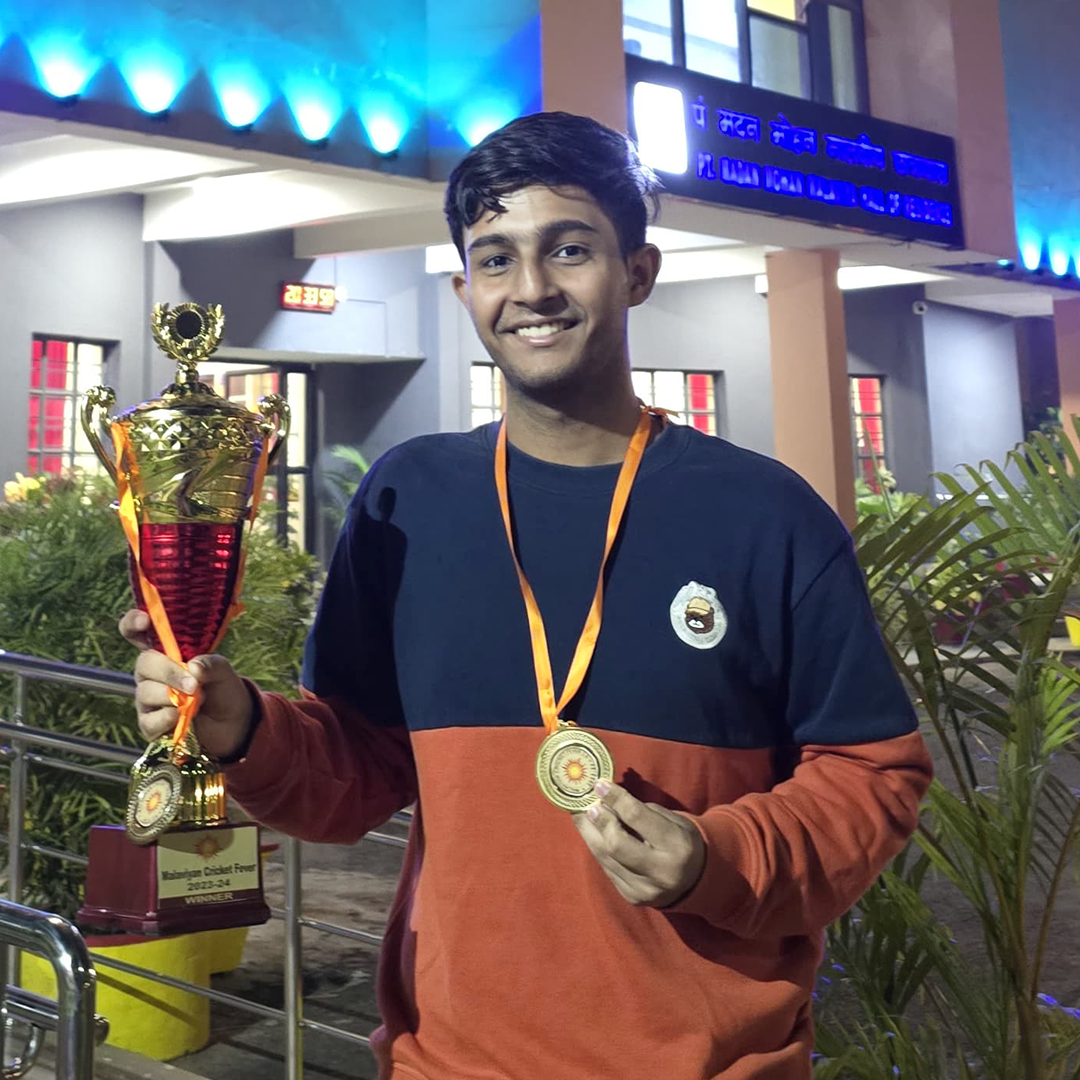
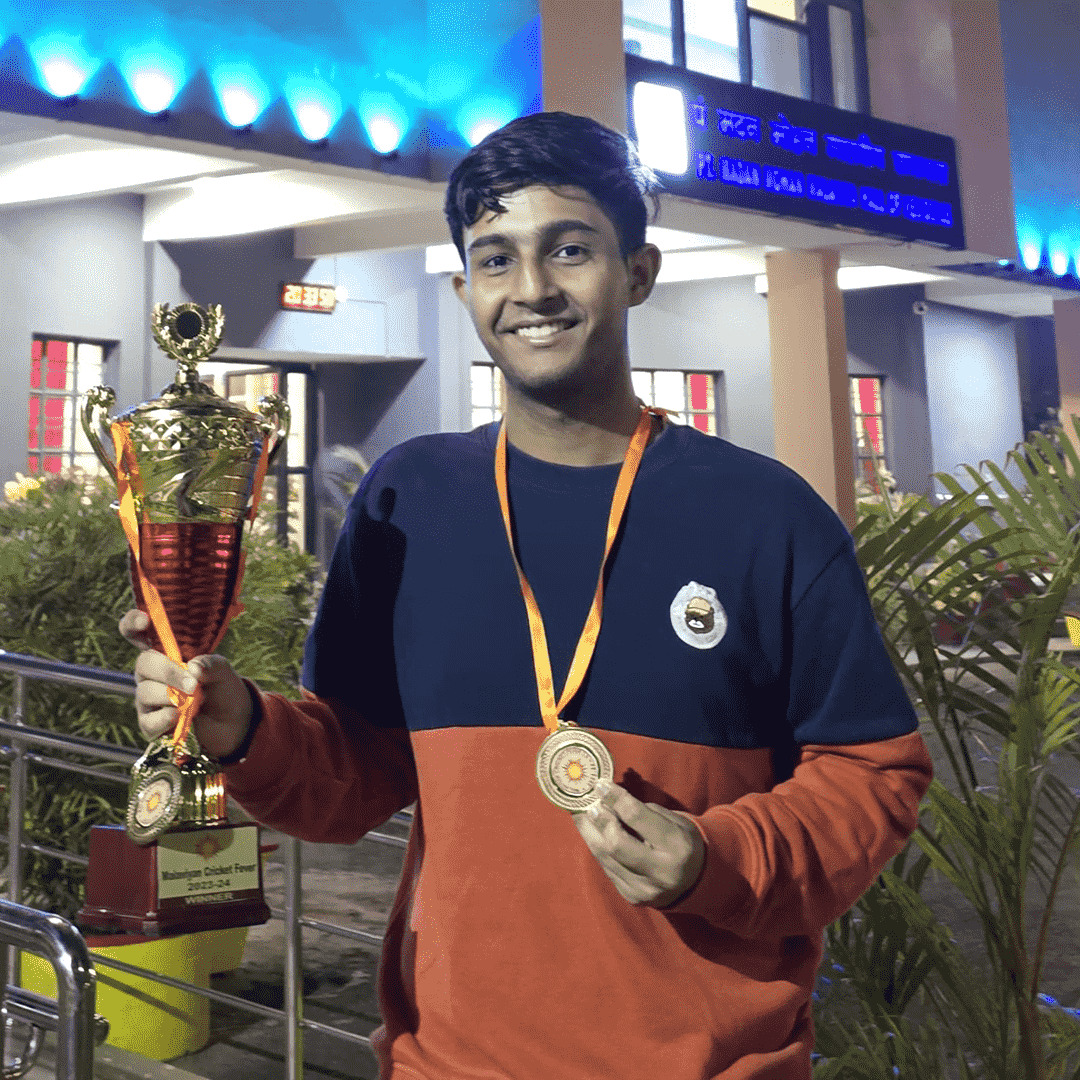
Update: Updated team images and reduced image size

diff --git a/frontend/src/components/History.jsx b/frontend/src/components/History.jsx
@@ -43,8 +43,8 @@ function History() {
                         both online and offline</p>
                     
                     <OwlCarousel
-                            className="owl-carousel history-carousel wow fadeInUp"
-                            {...options}
+                        className="owl-carousel history-carousel wow fadeInUp"
+                        {...options}
                     >
                     {historyData.map((event) => (
                         <div class="history-item tab-content text-start">

diff --git a/frontend/public/css/style.css b/frontend/public/css/style.css
@@ -403,7 +403,7 @@ h6,
 
 .history-carousel .owl-item .history-item,
 .history-carousel .owl-item .history-item * {
-    transition: all 0.5s ease-in-out;
+    transition: all 0.5s ease-in-out, opacity 0.5s ease;
 }
 
 .history-carousel .owl-item.center .history-item {
